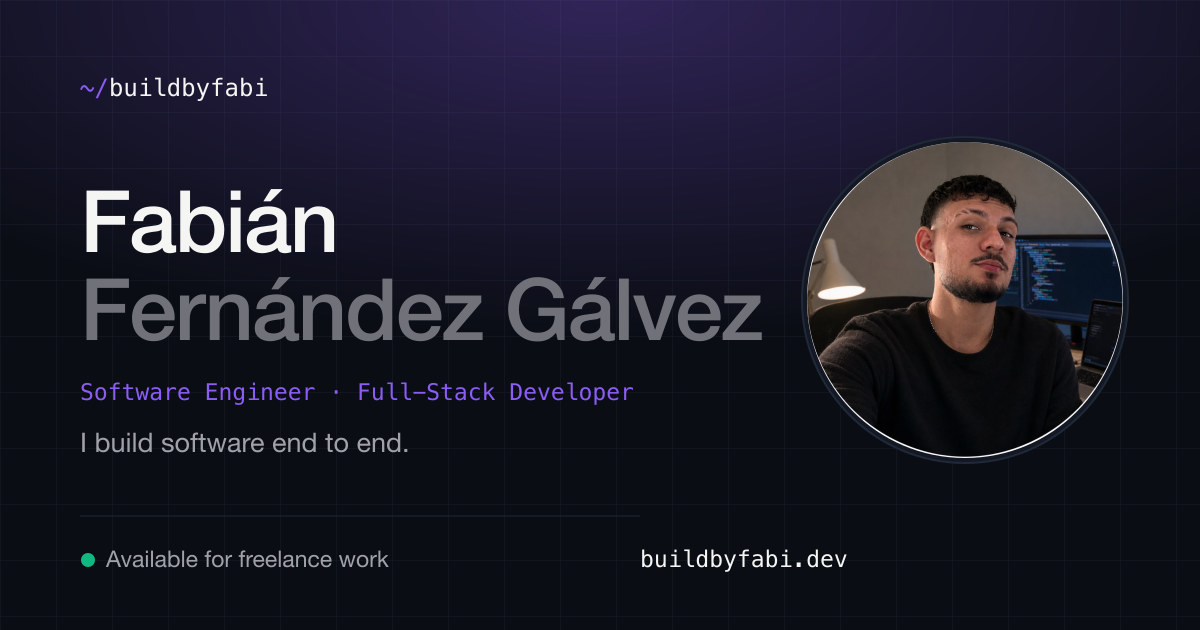
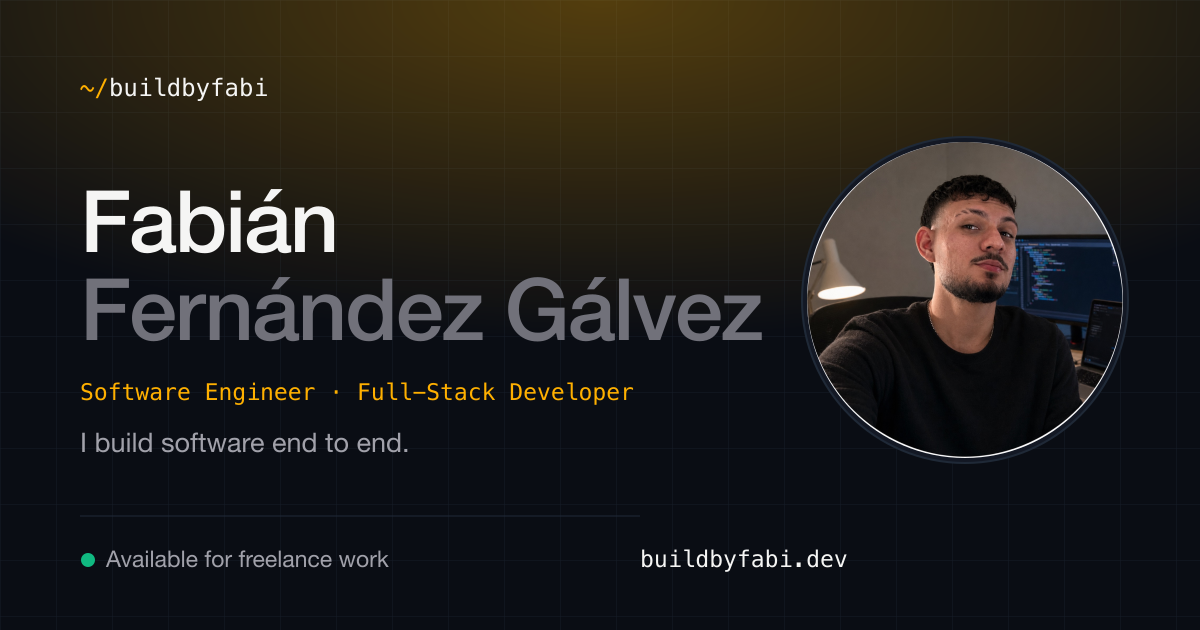
Acento propio: ámbar de fósforo
El acento pasa del violeta de plantilla al ámbar de los monitores de
terminal: rellena con texto oscuro y usa un tono tostado para texto sobre
crema. «En desarrollo» pasa a azul para no confundirse con el acento.
Favicon, imágenes OG y el mensaje de consola siguen el cambio.

Changed region(s): [[0.0, 0.0, 0.9867, 0.3619], [0.0617, 0.6032, 0.5242, 0.6333]]

diff --git a/src/styles/global.css b/src/styles/global.css
@@ -16,13 +16,16 @@
 	--border: #e2ded6;
 	--border-strong: #cfc9bf;
 	/* `accent` rellena (lleva texto blanco encima); `accent-ink` es el tono para texto */
-	--accent: #7c3aed;
-	--accent-ink: #6d28d9;
-	--accent-soft: #ede9fe;
-	--on-accent: #ffffff;
-	/* Estados de proyecto: tonos 700 en claro para que se lean a 12 px */
+	/* Ámbar de fósforo: el color de los monitores de terminal. Rellena con
+	   texto oscuro encima; para texto sobre crema se usa el tono tostado. */
+	--accent: #f5a524;
+	--accent-ink: #8f5200;
+	--accent-soft: #fbefd7;
+	--on-accent: #1a1206;
+	/* Estados de proyecto: tonos 700 en claro para que se lean a 12 px.
+	   «En desarrollo» va en azul para no confundirse con el acento. */
 	--ok: #047857;
-	--warn: #b45309;
+	--warn: #0369a1;
 }
 
 .dark {
@@ -35,12 +38,12 @@
 	--faint: #8b93a1;
 	--border: #222b3a;
 	--border-strong: #344055;
-	--accent: #7c3aed;
-	--accent-ink: #a78bfa;
-	--accent-soft: #1e1b3a;
-	--on-accent: #ffffff;
+	--accent: #ffb000;
+	--accent-ink: #ffb547;
+	--accent-soft: #2a2110;
+	--on-accent: #1a1206;
 	--ok: #34d399;
-	--warn: #fbbf24;
+	--warn: #38bdf8;
 }
 
 @theme inline {
